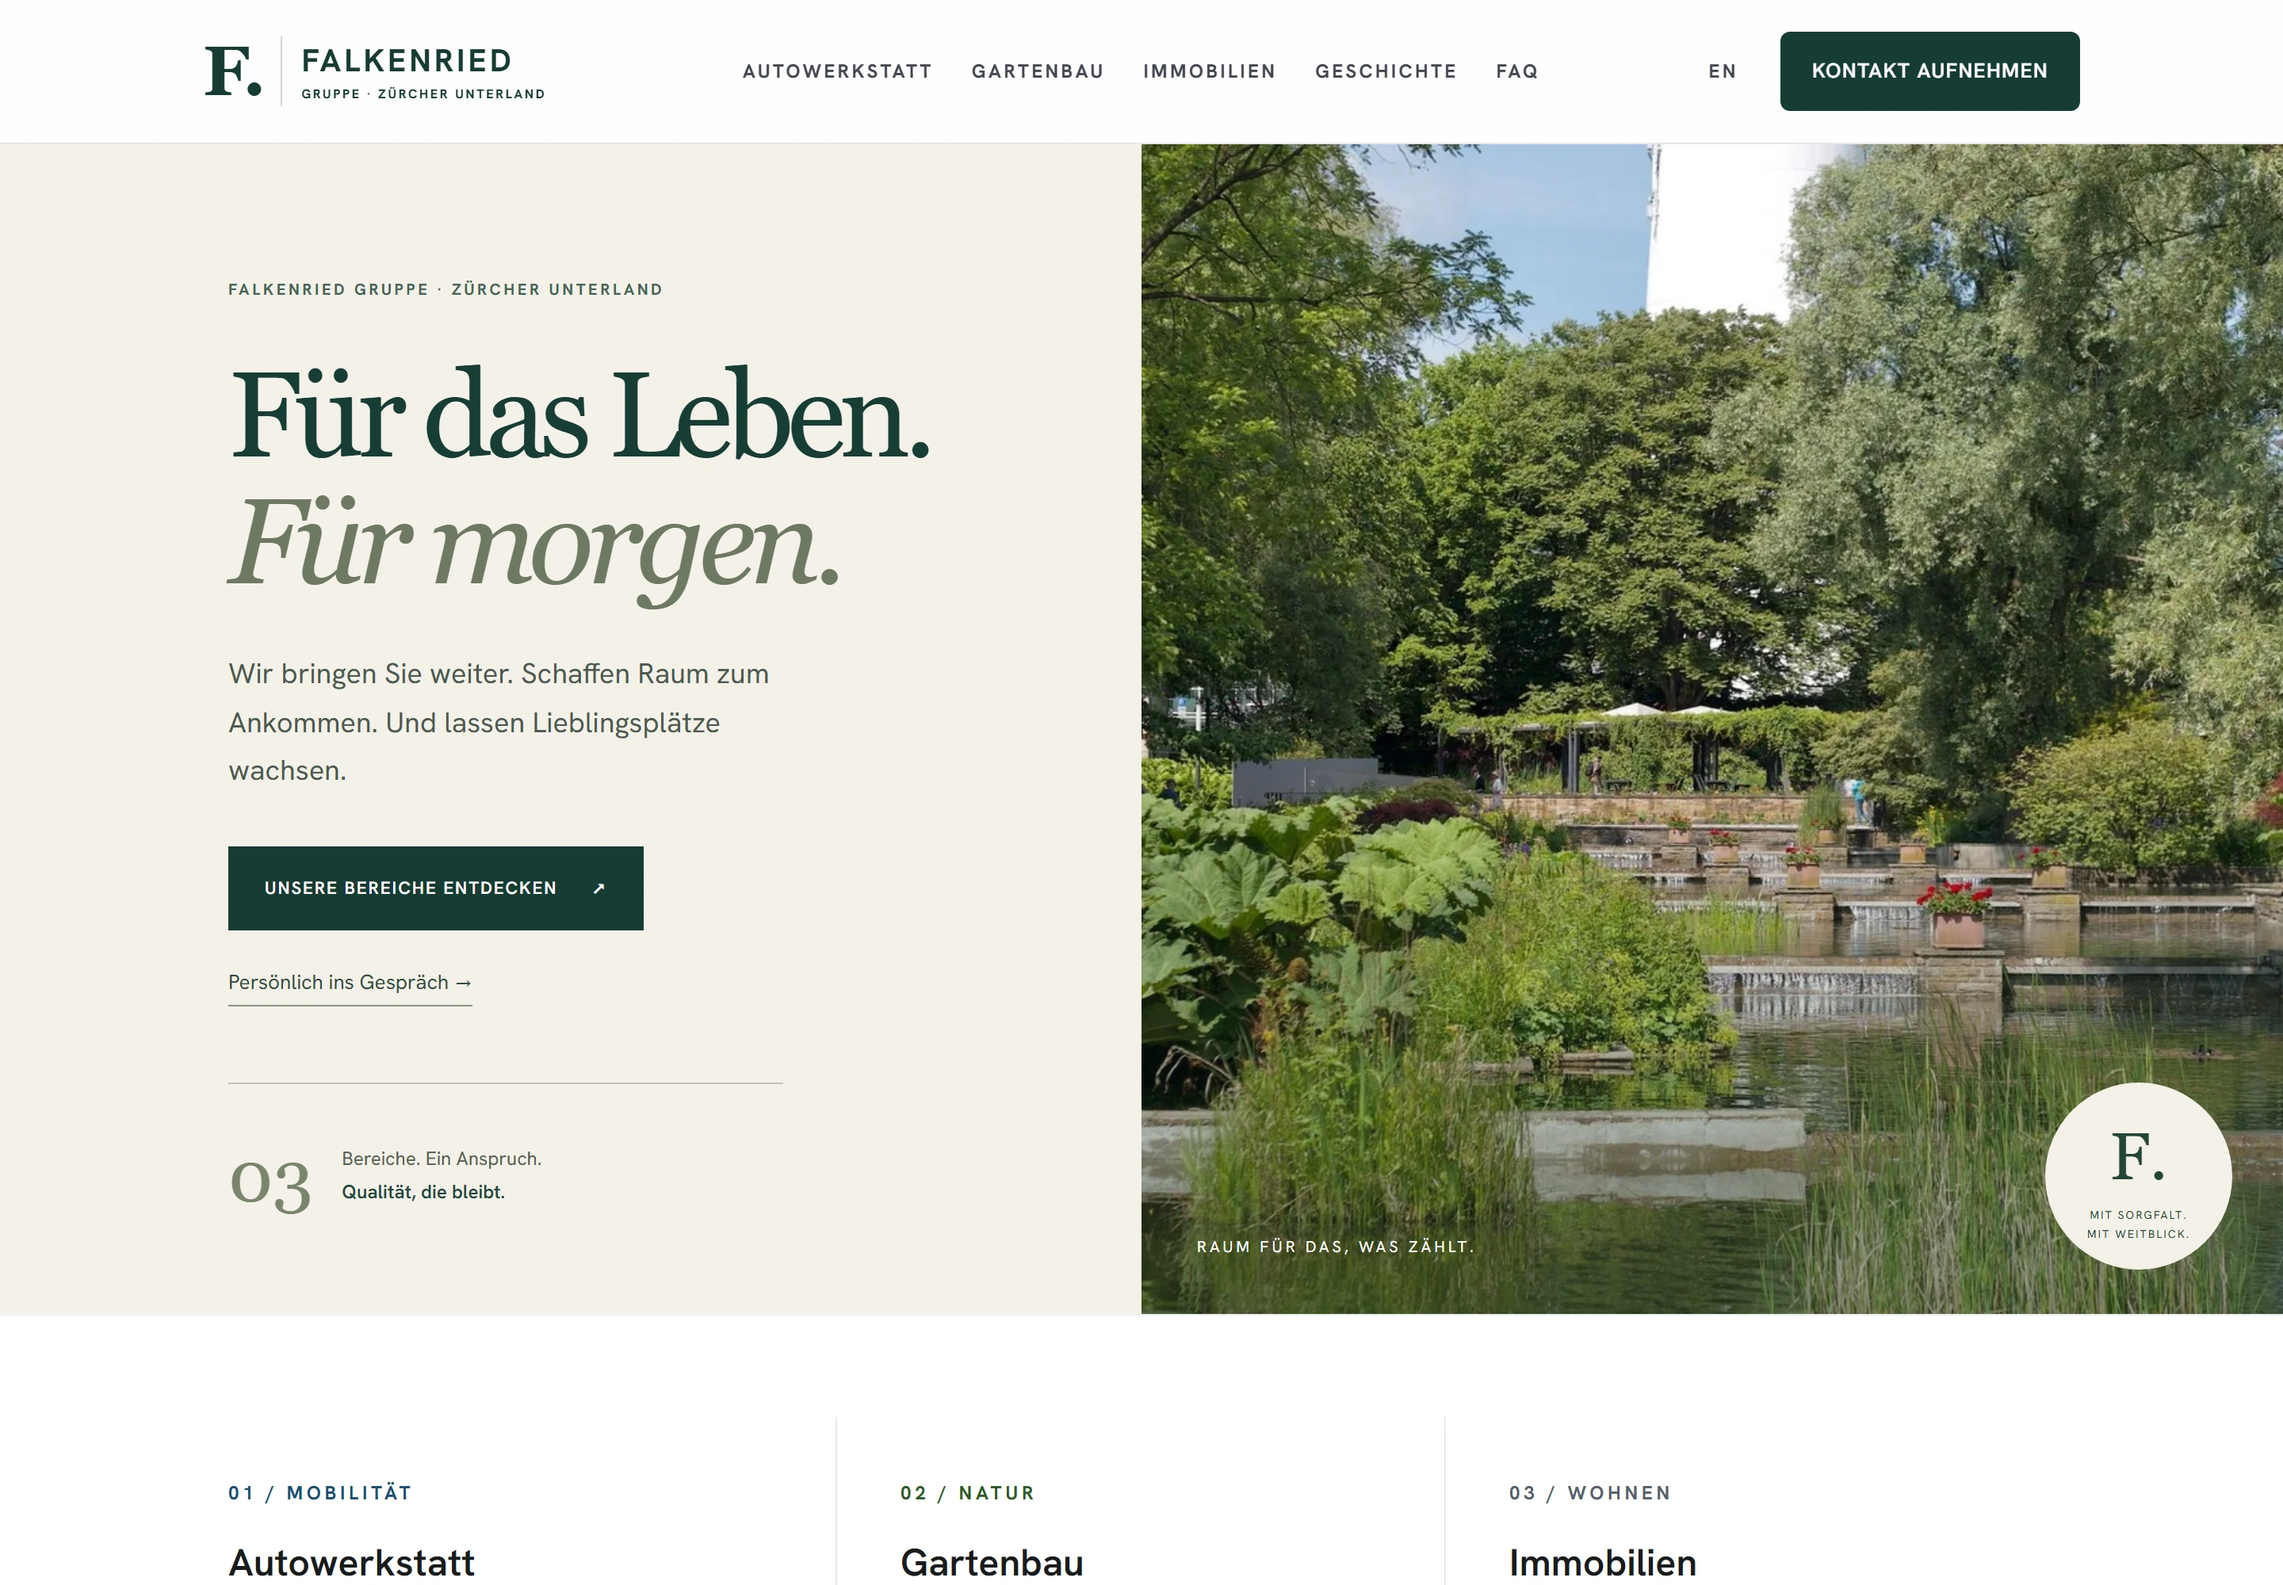
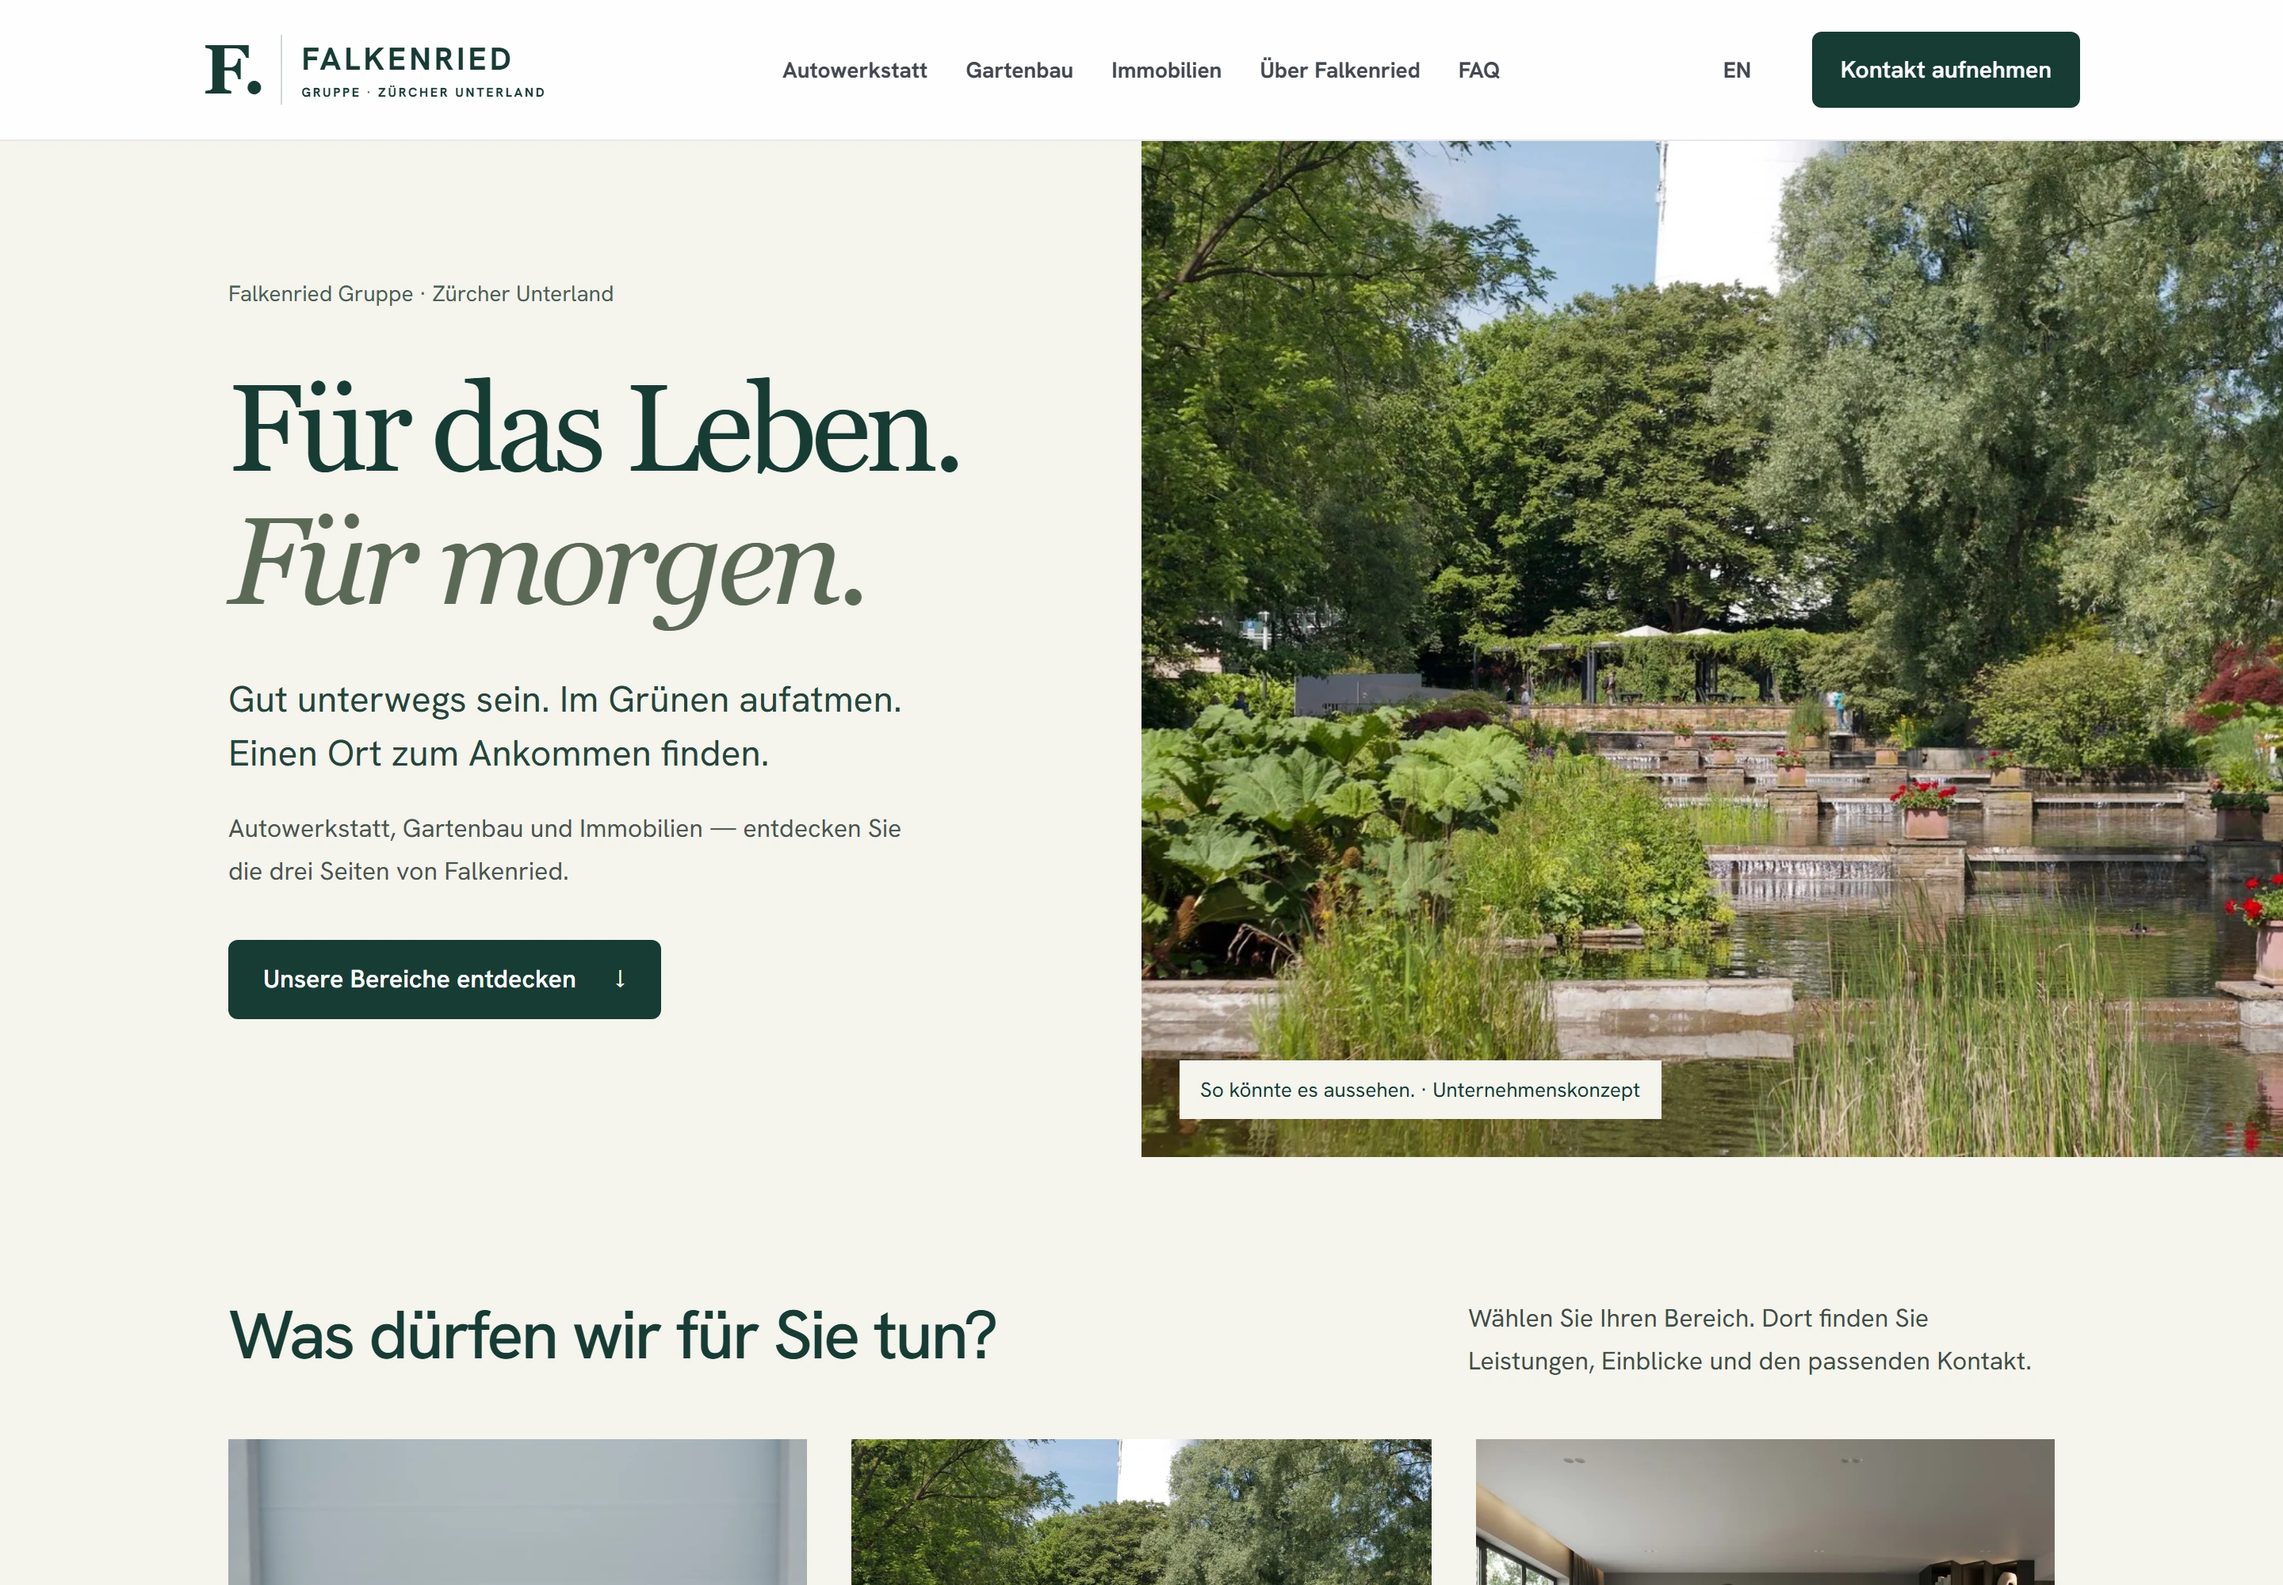
Refresh all four live demo portfolio screenshots

diff --git a/src/content/projects.ts b/src/content/projects.ts
@@ -16,7 +16,7 @@ export const projects: readonly Project[] = [
     "slug": "falkenried",
     "name": "Falkenried Gruppe",
     "year": "2026",
-    "image": { "de": "/images/projects/falkenried-retina.webp", "en": "/images/projects/falkenried-retina-en.webp" },
+    "image": { "de": "/images/projects/falkenried-retina.webp?v=20260924", "en": "/images/projects/falkenried-retina-en.webp?v=20260924" },
     "demoUrl": "https://silvan-demo-falkenried.vercel.app",
     "demoUrlEn": "https://silvan-demo-falkenried.vercel.app/en/",
     "status": "demo-concept",
@@ -47,7 +47,7 @@ export const projects: readonly Project[] = [
     "slug": "cafe-vogel",
     "name": "Café & Konditorei Vogel",
     "year": "2026",
-    "image": { "de": "/images/projects/cafe-vogel-retina.webp?v=20260908", "en": "/images/projects/cafe-vogel-retina-en.webp?v=20260908" },
+    "image": { "de": "/images/projects/cafe-vogel-retina.webp?v=20260924", "en": "/images/projects/cafe-vogel-retina-en.webp?v=20260924" },
     "demoUrl": "https://silvan-demo-cafe-vogel.vercel.app",
     "status": "demo-concept",
     "copy": {
@@ -77,7 +77,7 @@ export const projects: readonly Project[] = [
     "slug": "steiner-handwerk",
     "name": "Steiner Bau",
     "year": "2026",
-    "image": { "de": "/images/projects/steiner-handwerk-retina.webp?v=20260908", "en": "/images/projects/steiner-handwerk-retina-en.webp?v=20260908" },
+    "image": { "de": "/images/projects/steiner-handwerk-retina.webp?v=20260924", "en": "/images/projects/steiner-handwerk-retina-en.webp?v=20260924" },
     "demoUrl": "https://silvan-demo-steiner.vercel.app",
     "status": "demo-concept",
     "copy": {
@@ -107,7 +107,7 @@ export const projects: readonly Project[] = [
     "slug": "salon-lumiere",
     "name": "Salon Lumière",
     "year": "2026",
-    "image": { "de": "/images/projects/salon-lumiere-retina.webp?v=20260908", "en": "/images/projects/salon-lumiere-retina-en.webp?v=20260908" },
+    "image": { "de": "/images/projects/salon-lumiere-retina.webp?v=20260924", "en": "/images/projects/salon-lumiere-retina-en.webp?v=20260924" },
     "demoUrl": "https://silvan-demo-salon-lumiere.vercel.app",
     "status": "demo-concept",
     "copy": {

diff --git a/next.config.ts b/next.config.ts
@@ -52,10 +52,10 @@ const nextConfig: NextConfig = {
       { pathname: "/**", search: "" },
       // Only these refreshed screenshots use a cache version. Arbitrary image
       // query strings remain disallowed.
-      ...["cafe-vogel", "steiner-handwerk", "salon-lumiere"].flatMap(project =>
+      ...["falkenried", "cafe-vogel", "steiner-handwerk", "salon-lumiere"].flatMap(project =>
         ["", "-en"].map(locale => ({
           pathname: `/images/projects/${project}-retina${locale}.webp`,
-          search: "?v=20260908",
+          search: "?v=20260924",
         }))),
     ],
     qualities: [75, 90],

diff --git a/docs/audits/2026-09-24-demo-portfolio-refresh.md b/docs/audits/2026-09-24-demo-portfolio-refresh.md
@@ -1,0 +1,23 @@
+# Demo portfolio refresh — 24 September 2026
+
+## Scope
+All four standalone demos are now refined and published: Salon Lumière, Steiner Bau, Café Vogel and Falkenried. Captured the actual public pages, including Falkenried's German and English versions. German-only demos remain German in English portfolio screenshots.
+
+Updated eight desktop images and ten versioned mobile/workflow images. The evidence manifest records source URL, viewport, dimensions and timestamp. No forms submitted during capture. Updated screenshot cache versions and the exact Next.js image allowlist so existing browser/optimizer caches cannot retain stale previews.
+
+## Verification
+- Screenshot capture: no broken images, page errors or horizontal overflow.
+- Selected service/property and date/time were carried into real demo form controls for workflow images.
+- Next.js production build: 40 pages; TypeScript successful; static CSP hardening successful.
+- Local portfolio image checks: 28 DE/EN page/viewport combinations (home, websites, work, four project details at 390/1440), all refreshed project images decoded successfully.
+- Two existing localized screenshot tests passed; scoped ESLint and diff whitespace checks passed.
+- Existing main-site sources were compared by SHA-1 against production deployment dpl_4svVrgirvCYYfKp3UfA1Aj24BznS before publication. They already matched production; unrelated Git changes were preserved and excluded from the screenshot commit.
+
+## Deployment
+Release: https://silvan-digital-studio-p2tnd9vdb-silvan1.vercel.app
+Deployment ID: dpl_E69sXHq2nzqrZpEkouhPsmGEfcC2
+Public: https://silvandigital.ch
+Rollback: dpl_4svVrgirvCYYfKp3UfA1Aj24BznS
+Production completion and public verification recorded below after deployment.
+
+Production confirmed READY and aliased to silvandigital.ch. Repeated all 28 portfolio page/viewport checks publicly: passed. All ten published evidence image SHA-256 hashes match the newly captured local files. No failed image loads or JavaScript errors in checked views.
